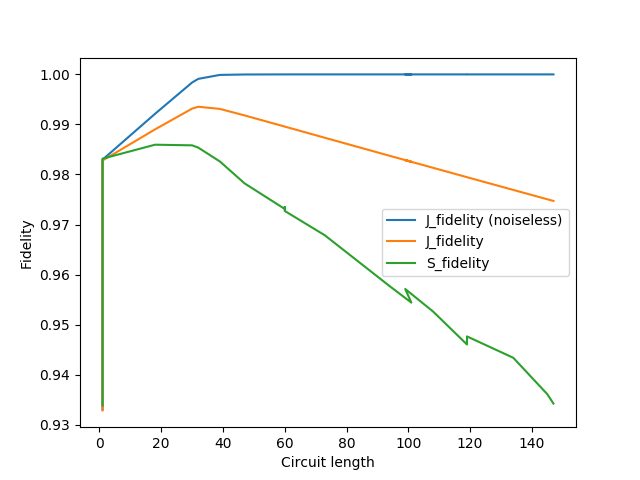
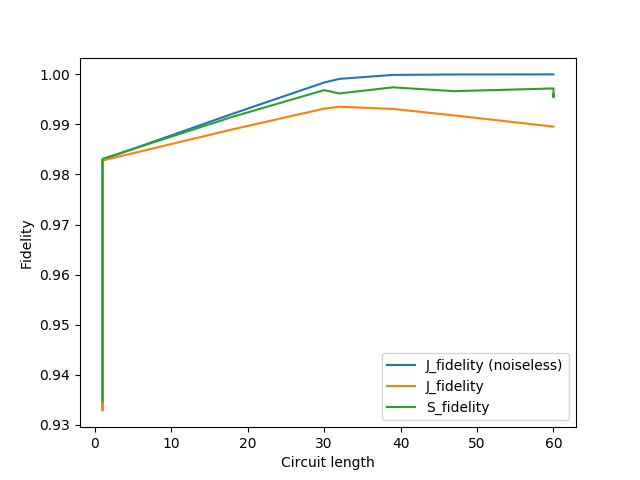
refactored how noise is passed around

diff --git a/where_to_stop.py b/where_to_stop.py
@@ -9,17 +9,16 @@ import matplotlib.pyplot as plt
 import time
 from scipy.optimize import curve_fit
 from typing import Any, Iterable
+from noise import standard_noise_channels
 
 
 def plot_distances(circuits: Iterable[Iterable[Any]], U: np.ndarray, noise_strength: float):
     max_acc = len(circuits)
 
-    p1 = noise_strength
-    gamma1 = noise_strength
-    gamma2 = noise_strength
+    noise_channels = standard_noise_channels(noise_strength)
 
     start = time.time()
-    J_fidelities = [(2 - 2 * J_fidelity.f_pro_experimental(c, U, p1, gamma1, gamma2) ** 0.5) ** 0.5 for c in circuits]
+    J_fidelities = [(2 - 2 * J_fidelity.f_pro_experimental(c, U, noise_channels) ** 0.5) ** 0.5 for c in circuits]
     end = time.time()
     print("The best accuracy for J fidelity was: " + str(min(range(max_acc), key=lambda x: J_fidelities[x])))
     print("It took " + str(end-start) + " seconds")
@@ -27,7 +26,7 @@ def plot_distances(circuits: Iterable[Iterable[Any]], U: np.ndarray, noise_stren
 
 
     start = time.time()
-    J_distances = [J_distance.j_distance_experimental(c, U, p1=p1, gamma1=gamma1, gamma2=gamma2) for c in circuits]
+    J_distances = [J_distance.j_distance_experimental(c, U, noise_channels) for c in circuits]
     end = time.time()
     print("The best accuracy for J distance was: " + str(min(range(max_acc), key=lambda x: J_distances[x])))
     print("It took " + str(end-start) + " seconds")
@@ -36,7 +35,7 @@ def plot_distances(circuits: Iterable[Iterable[Any]], U: np.ndarray, noise_stren
 
     # This may take a few seconds
     start = time.time()
-    S_fidelities = [(2 - 2 * S_fidelity.experimental(c, U, 100, p1=p1, gamma1=gamma1, gamma2=gamma2) ** 0.5) ** 0.5
+    S_fidelities = [(2 - 2 * S_fidelity.experimental(c, U, 100, noise_channels) ** 0.5) ** 0.5
                     for c in circuits]
     end = time.time()
     print("The best accuracy for S was: " + str(min(range(max_acc), key=lambda x: S_fidelities[x])))
@@ -44,7 +43,7 @@ def plot_distances(circuits: Iterable[Iterable[Any]], U: np.ndarray, noise_stren
     print()
 
     start = time.time()
-    diamond_distances = [diamond_distance.monte_carlo_from_circuit(c, U, 1000, p1, gamma1, gamma2) for c in circuits]
+    diamond_distances = [diamond_distance.monte_carlo_from_circuit(c, U, 1000, noise_channels) for c in circuits]
     end = time.time()
     print("The best accuracy for diamond was: " + str(min(range(max_acc), key=lambda x: diamond_distances[x])))
     print("It took " + str(end - start) + " seconds")
@@ -67,9 +66,7 @@ def plot_fidelities(circuits: Iterable[Iterable[Any]], U: np.ndarray, noise_stre
 
     lengths = [len(c) for c in circuits]
 
-    p1 = noise_strength
-    gamma1 = noise_strength
-    gamma2 = noise_strength
+    noise_channels = standard_noise_channels(noise_strength)
 
     J_noiseless = [J_fidelity.f_pro_experimental(c, U) for c in circuits]
 
@@ -77,7 +74,7 @@ def plot_fidelities(circuits: Iterable[Iterable[Any]], U: np.ndarray, noise_stre
         return 1 - (a * 0.5 ** n) + b * noise_strength * n
 
     start = time.time()
-    J_fidelities = [J_fidelity.f_pro_experimental(c, U, p1, gamma1, gamma2) for c in circuits]
+    J_fidelities = [J_fidelity.f_pro_experimental(c, U, noise_channels) for c in circuits]
     end = time.time()
     print("The best accuracy for J was: " + str(min(range(max_acc), key=lambda x: J_fidelities[x])))
     print("It took " + str(end - start) + " seconds")
@@ -86,7 +83,7 @@ def plot_fidelities(circuits: Iterable[Iterable[Any]], U: np.ndarray, noise_stre
     print()
 
     start=time.time()
-    S_fidelities = [S_fidelity.experimental(c, U, 100, p1=p1, gamma1=gamma1, gamma2=gamma2) for c in circuits]
+    S_fidelities = [S_fidelity.experimental(c, U, 100, noise_channels) for c in circuits]
     end = time.time()
     print("The best accuracy for S was: " + str(min(range(max_acc), key=lambda x: S_fidelities[x])))
     print("It took " + str(end - start) + " seconds")
@@ -96,7 +93,7 @@ def plot_fidelities(circuits: Iterable[Iterable[Any]], U: np.ndarray, noise_stre
 
     # This will take several minutes and is really really inaccurate with any amount of noise
     # start = time.time()
-    # J_simulated = [J_fidelity.f_pro_simulated(c, U, p1, gamma1, gamma2) for c in circuits]
+    # J_simulated = [J_fidelity.f_pro_simulated(c, U, noise_strength, noise_strength, noise_strength) for c in circuits]
     # end = time.time()
     # print("The best accuracy for simulation was: " + str(max(range(max_acc), key=lambda x: J_simulated[x])))
     # print("It took " + str(end-start) + " seconds")
@@ -126,6 +123,6 @@ U = np.array([[complex(math.cos(theta / 2), - math.sin(theta / 2)), 0],
               [0, complex(math.cos(theta / 2), math.sin(theta / 2))]])
 # U = np.eye(2)
 
-plot_distances(circuits, U, 1e-3)
-# plot_fidelities(circuits, U, 1e-4)
+# plot_distances(circuits, U, 1e-3)
+plot_fidelities(circuits, U, 1e-4)
 

diff --git a/J_distance.py b/J_distance.py
@@ -24,37 +24,31 @@ def j_distance(channel1: Iterable[np.ndarray], channel2: Iterable[np.ndarray]) -
 
 
 def circuit_to_jamiolkowski(circuit_description: Iterable[Any], circuit_key: Optional[Dict[Any, np.ndarray]] = None, *,
-                            n_qubits: int = 1, p1: float = 0, gamma1: float = 0, gamma2: float = 0) -> np.ndarray:
+                            n_qubits: int = 1, noise_channels: Iterable = []) -> np.ndarray:
     if circuit_key is None:
         circuit_key = ops
     d = 2 ** n_qubits
-
-    depolarising = depolarising_channel(p1, n_qubits=n_qubits)
-    amplitude_damping = amplitude_damping_channel(gamma1, n_qubits=n_qubits)
-    phase_damping = phase_damping_channel(gamma2, n_qubits=n_qubits)
 
     phi = sum([np.kron(c, c) for c in np.eye(d)])
     rho = np.outer(phi, phi) / d
     for j in circuit_description[::-1]:
         u = circuit_key[j]
         rho = apply_channel([np.kron(u, np.eye(d))], rho)
-        rho = apply_channel([np.kron(e, np.eye(d)) for e in depolarising], rho)
-        rho = apply_channel([np.kron(e, np.eye(d)) for e in amplitude_damping], rho)
-        rho = apply_channel([np.kron(e, np.eye(d)) for e in phase_damping], rho)
+        for c in noise_channels:
+            rho = apply_channel([np.kron(e, np.eye(d)) for e in c], rho)
     return rho
 
 
-def j_distance_experimental(circuit_description: Iterable[Any], unitary: np.ndarray,
+def j_distance_experimental(circuit_description: Iterable[Any], unitary: np.ndarray, noise_channels,
                             circuit_key: Optional[Dict[Any, np.ndarray]] = None, *,
-                            n_qubits: int = 1, p1: float = 0, gamma1: float = 0, gamma2: float = 0,) -> float:
-    return trace_norm(circuit_to_jamiolkowski(circuit_description, circuit_key, n_qubits=n_qubits, p1=p1, gamma1=gamma1,
-                                              gamma2=gamma2),
+                            n_qubits: int = 1) -> float:
+    return trace_norm(circuit_to_jamiolkowski(circuit_description, circuit_key, n_qubits=n_qubits, noise_channels=noise_channels),
                       jamiolkowski([unitary]))
 
+
 def effect_of_noise(circuit_description: Iterable[Any], circuit_key: Optional[Dict[Any, np.ndarray]] = None, *,
-                            n_qubits: int = 1, p1: float = 0, gamma1: float = 0, gamma2: float = 0,) -> float:
-    return trace_norm(circuit_to_jamiolkowski(circuit_description, circuit_key, n_qubits=n_qubits, p1=p1, gamma1=gamma1,
-                                              gamma2=gamma2),
+                            n_qubits: int = 1, noise_channels: Iterable = []) -> float:
+    return trace_norm(circuit_to_jamiolkowski(circuit_description, circuit_key, n_qubits=n_qubits, noise_channels=noise_channels),
                       circuit_to_jamiolkowski(circuit_description, circuit_key, n_qubits=n_qubits))
 
 # "so far as we are aware, experimentally determining D_pro requires doing full process

diff --git a/J_fidelity.py b/J_fidelity.py
@@ -25,8 +25,8 @@ def f_pro(channel: Iterable[np.ndarray], unitary: np.ndarray) -> float:
         sum([np.trace(sigmas[k] @ apply_channel(channel, state_basis[k])) for k in range(dim ** 2)]).real
 
 
-def f_pro_experimental(circuit_string: Iterable[Any], unitary: np.ndarray, p1: float = 0, gamma1: float = 0,
-                       gamma2: float = 0, key: Dict[Any, np.ndarray] = None) -> float:
+def f_pro_experimental(circuit_string: Iterable[Any], unitary: np.ndarray, noise_channels: Iterable = [],
+                       key: Dict[Any, np.ndarray] = None) -> float:
     dim = unitary.shape[0]
     n_qubits = int(math.log(dim, 2))
     u_basis = get_diracs(n_qubits)
@@ -38,14 +38,14 @@ def f_pro_experimental(circuit_string: Iterable[Any], unitary: np.ndarray, p1: f
                  np.outer([0] + [1 for _ in range(dim ** 2 - 1)], [1] + [0 for _ in range(dim ** 2 - 1)]))
     sigmas = [sum([a[k][l] * unitary @ u_basis[k] @ unitary.transpose().conjugate()
                    for k in range(dim ** 2)]) for l in range(dim ** 2)]
-    expectations = [np.trace(sigmas[k] @ density_runner.run_by_matrices(circuit_string, state_basis[k], p1, gamma1, gamma2, key))
+    expectations = [np.trace(sigmas[k] @ density_runner.run_by_matrices(circuit_string, state_basis[k], noise_channels, key))
                     .real for k in range(dim ** 2)]
     # print(expectations)
     return 1 / dim ** 3 * sum(expectations)
 
 
 def f_pro_simulated(circuit_string: Iterable[Any], unitary: np.ndarray, p1: float = 0, gamma1: float = 0,
-                       gamma2: float = 0, key: Dict[Any, np.ndarray] = None) -> float:
+                    gamma2: float = 0, key: Dict[Any, np.ndarray] = None) -> float:
     print(circuit_string)
     dim = unitary.shape[0]
     n_qubits = int(math.log(dim, 2))
@@ -89,13 +89,13 @@ def f_pro_simulated(circuit_string: Iterable[Any], unitary: np.ndarray, p1: floa
     return 1 / dim ** 3 * sum(expectations[k][l] * m[l][k] for l in range(dim ** 2) for k in range(dim ** 2)).real
 
 
-def effect_of_noise(circuit_description: Iterable[Any], p1: float, gamma1: float, gamma2: float,  n_qubits: int = 1,
+def effect_of_noise(circuit_description: Iterable[Any], noise_channels: Iterable = [],  n_qubits: int = 1,
                     circuit_key: Optional[Dict[Any, np.ndarray]] = None) -> float:
     d = 2 ** n_qubits
     unitary = np.eye(d)
     for s in circuit_description[::-1]:
         unitary = circuit_key[s] @ unitary
-    return 1 - f_pro_experimental(circuit_description, unitary, p1=p1, gamma1=gamma1, gamma2=gamma2, key=circuit_key)
+    return 1 - f_pro_experimental(circuit_description, unitary, noise_channels, key=circuit_key)
 
 
 def angle(channel: Iterable[np.ndarray], unitary: np.ndarray) -> float:

diff --git a/S_fidelity.py b/S_fidelity.py
@@ -25,29 +25,30 @@ def f_min(channel1: Iterable[np.ndarray], channel2: Iterable[np.ndarray], n_tria
     return min_fidelity
 
 
-def experimental(circuit_string: Iterable[Any], unitary: np.ndarray, n_trials: int,
-                             p1: float = 0, gamma1: float = 0, gamma2: float = 0,
-                             key: Dict[Any, np.ndarray] = None) -> float:
+def experimental(circuit_string: Iterable[Any], unitary: np.ndarray, n_trials: int, noise_channels: Iterable = [],
+                 key: Dict[Any, np.ndarray] = None) -> float:
     dim = unitary.shape[0]
     if key is None:
         key = ops
-    min_fidelity = min([fidelity(run_by_matrices(circuit_string, xi, p1, gamma1, gamma2, key),
+    min_fidelity = min([fidelity(run_by_matrices(circuit_string, xi, noise_channels, key),
                                  apply_channel([unitary], xi)) for xi in random_densities(dim, n_trials)])
     for i in range(int(math.log(dim, 2))):
         key = {k: np.kron(v, np.eye(2)) for k, v in key.items()}
         unitary = np.kron(unitary, np.eye(2))
-        with_ancilla = min([fidelity(run_by_matrices(circuit_string, xi, p1, gamma1, gamma2, key=key),
+        noise_channels = [[np.kron(e, np.eye(2)) for e in c]for c in noise_channels]
+        with_ancilla = min([fidelity(run_by_matrices(circuit_string, xi, noise_channels, key=key),
                             apply_channel([unitary], xi)) for xi in random_densities(2 ** (i + 1) * dim, n_trials)])
         min_fidelity = min(min_fidelity, with_ancilla)
     return min_fidelity
 
-def effect_of_noise(circuit_description: Iterable[Any], p1: float, gamma1: float, gamma2: float,  n_qubits: int = 1,
+
+def effect_of_noise(circuit_description: Iterable[Any], noise_channels: Iterable = [],  n_qubits: int = 1,
                     circuit_key: Optional[Dict[Any, np.ndarray]] = None) -> float:
     d = 2 ** n_qubits
     unitary = np.eye(d)
     for s in circuit_description[::-1]:
         unitary = circuit_key[s] @ unitary
-    return 1 - experimental(circuit_description, unitary, 100, p1=p1, gamma1=gamma1, gamma2=gamma2, key=circuit_key)
+    return 1 - experimental(circuit_description, unitary, 100, noise_channels, key=circuit_key)
 
 
 def angle(channel1: Iterable[np.ndarray], channel2: Iterable[np.ndarray]) -> float:

diff --git a/diamond_distance.py b/diamond_distance.py
@@ -48,27 +48,28 @@ def monte_carlo_f_algorithm(channel1: Iterable[np.ndarray], channel2: Iterable[n
 
 
 def monte_carlo_from_circuit(circuit_string: Iterable[Any], unitary: np.ndarray, n_trials: int,
-                             p1: float = 0, gamma1: float = 0, gamma2: float = 0,
+                             noise_channels: Optional[Iterable] = None,
                              circuit_key: Dict[Any, np.ndarray] = None) -> float:
     if circuit_key is None:
         circuit_key = ops
     dim = unitary.shape[0]
-    max_norm = max([trace_norm(run_by_matrices(circuit_string, xi, p1, gamma1, gamma2, circuit_key), apply_channel([unitary], xi))
+    max_norm = max([trace_norm(run_by_matrices(circuit_string, xi, noise_channels, circuit_key), apply_channel([unitary], xi))
                     for xi in random_densities(dim, n_trials)])
     for k in range(int(math.log(dim, 2))):
         circuit_key = {i: np.kron(v, np.eye(2)) for i, v in circuit_key.items()}
         unitary = np.kron(unitary, np.eye(2))
-        with_ancilla = max([trace_norm(run_by_matrices(circuit_string, xi, p1, gamma1, gamma2, circuit_key),
+        noise_channels = [[np.kron(e, np.eye(2)) for e in c] for c in noise_channels]
+        with_ancilla = max([trace_norm(run_by_matrices(circuit_string, xi, noise_channels, circuit_key),
                             apply_channel([unitary], xi)) for xi in random_densities(2 ** (k + 1) * dim, n_trials)])
         max_norm = max(max_norm, with_ancilla)
     return max_norm
 
 
-def effect_of_noise(circuit_description: Iterable[Any], p1: float, gamma1: float, gamma2: float,  n_qubits: int = 1,
+def effect_of_noise(circuit_description: Iterable[Any], noise_channels: Iterable,  n_qubits: int = 1,
                     circuit_key: Optional[Dict[Any, np.ndarray]] = None) -> float:
     d = 2 ** n_qubits
     unitary = np.eye(d)
     for s in circuit_description[::-1]:
         unitary = circuit_key[s] @ unitary
-    return monte_carlo_from_circuit(circuit_description, unitary, 100, p1=p1, gamma1=gamma1, gamma2=gamma2, circuit_key=circuit_key)
+    return monte_carlo_from_circuit(circuit_description, unitary, 100, noise_channels, circuit_key=circuit_key)
 

diff --git a/density_runner.py b/density_runner.py
@@ -15,18 +15,13 @@ ops = {"S": np.array([[1, 0], [0, complex(0, 1)]]),
        "I": np.eye(2)}
 
 
-def run_by_matrices(string: Any, start_density: np.ndarray, p1: float = 0, gamma1: float = 0, gamma2: float = 0,
+def run_by_matrices(string: Any, start_density: np.ndarray, noise_channels: Iterable,
                     key: Dict[Any, Callable] = None):
     if key is None:
         key = ops
-    n = int(math.log(start_density.shape[0], 2))
-    depolarising = depolarising_channel(p1, n_qubits=n)
-    amplitude_damping = amplitude_damping_channel(gamma1, n_qubits=n)
-    phase_damping = phase_damping_channel(gamma2, n_qubits=n)
     rho = start_density
     for s in string[::-1]:
         rho = apply_channel([key[s]], rho)
-        rho = apply_channel(depolarising, rho)
-        rho = apply_channel(amplitude_damping, rho)
-        rho = apply_channel(phase_damping, rho)
+        for c in noise_channels:
+            rho = apply_channel(c, rho)
     return rho

diff --git a/diamond_distance.test.py b/diamond_distance.test.py
@@ -1,8 +1,7 @@
-from diamond_distance import monte_carlo_f_algorithm, psi
+from diamond_distance import monte_carlo_f_algorithm
 from noise import *
 import math
 
-"""
 print(monte_carlo_f_algorithm([np.kron(X, X)], identity_channel(2), 100))
 
 
@@ -27,9 +26,3 @@ print(monte_carlo_f_algorithm(amplitude_damping, identity_channel(1), 100))
 gamma2 = 0.2
 phase_damping = phase_damping_channel(gamma2)
 print(monte_carlo_f_algorithm(phase_damping, identity_channel(1), 100))
-"""
-
-A = np.array([[1, 0], [1, 2], [3, 1], [0, 4]])
-X = np.eye(2)
-W = np.eye(4)
-print(psi(X, W, A, 2))

diff --git a/J_fidelity.test.py b/J_fidelity.test.py
@@ -4,7 +4,7 @@ import math
 from Pauli import *
 from density_runner import ops
 
-"""
+
 print(f_pro(identity_channel(2), np.eye(4)))
 
 
@@ -47,7 +47,7 @@ print(f_pro_simulated("HTSHTHTSHTSHTHTSHTHTHTSHTSHTHTSHTSHTSHTSHTSHTHTSHTSHTHT",
                          np.kron(np.array([[complex(c, -s), 0], [0, complex(c, s)]]), np.eye(2))))
 print()
 
-"""
+
 theta = 1
 U = np.array([[complex(math.cos(theta / 2), - math.sin(theta / 2)), 0],
               [0, complex(math.cos(theta / 2), math.sin(theta / 2))]])

diff --git a/noise.py b/noise.py
@@ -68,3 +68,8 @@ def single_qubit_phase_damping_channel(gamma: float, index: int, n_qubits: int) 
         channel = [np.kron(channel[i], np.eye(2)) for i in range(2)]
     return channel
 
+
+def standard_noise_channels(noise_strength: float, n_qubits: int = 1) -> List[List[np.ndarray]]:
+    return [depolarising_channel(noise_strength, n_qubits),
+            amplitude_damping_channel(noise_strength, n_qubits),
+            phase_damping_channel(noise_strength, n_qubits)]
